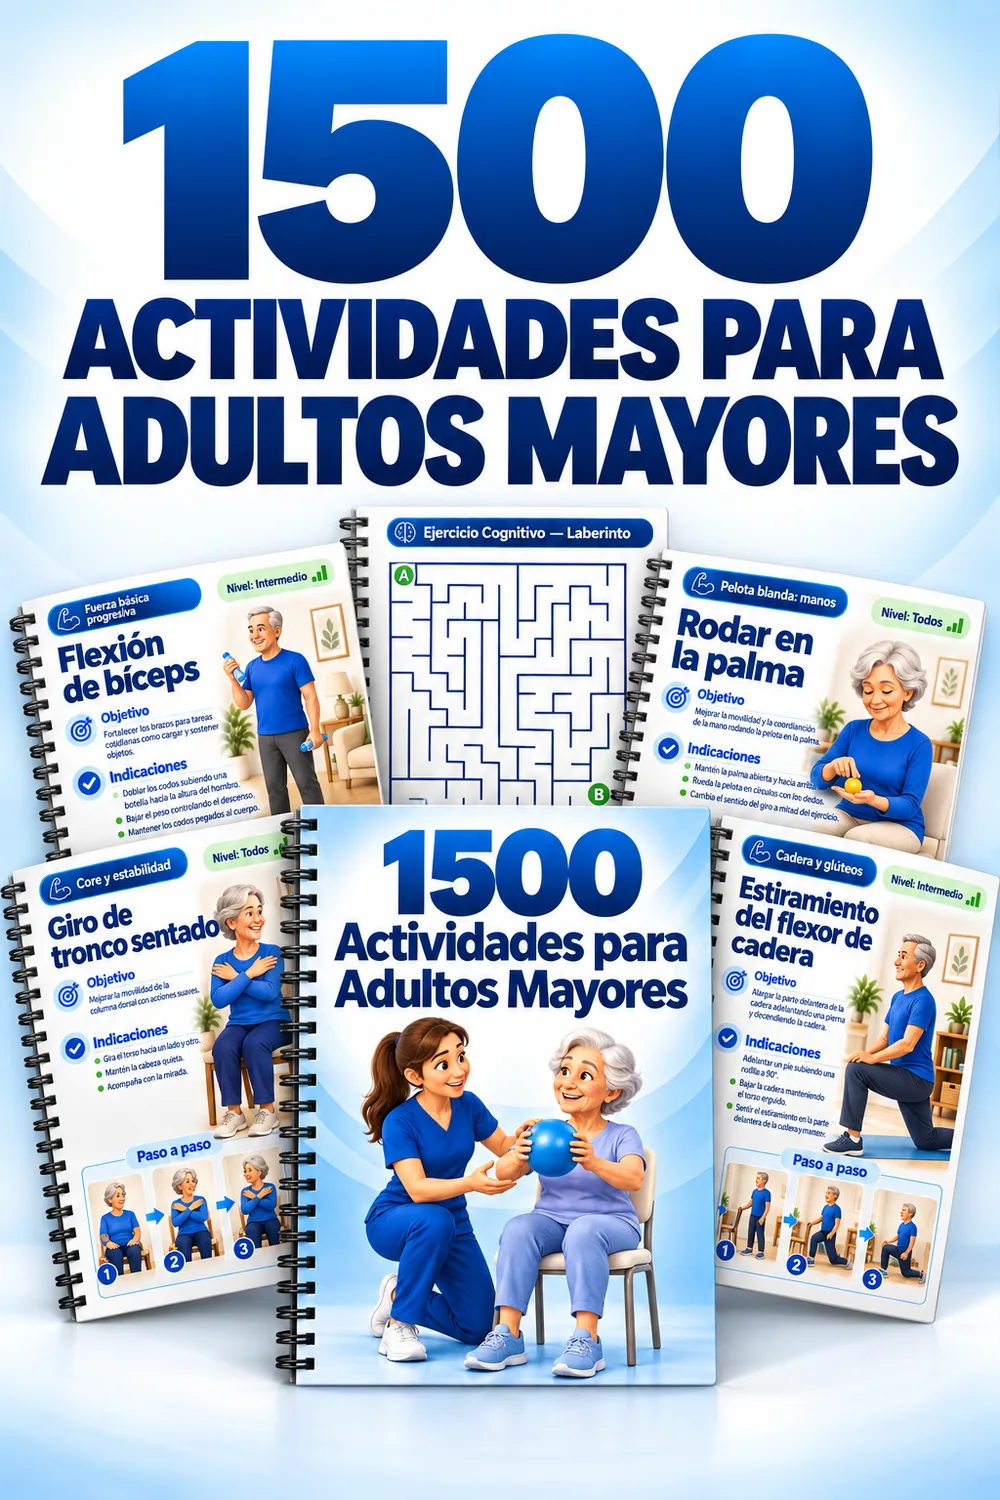
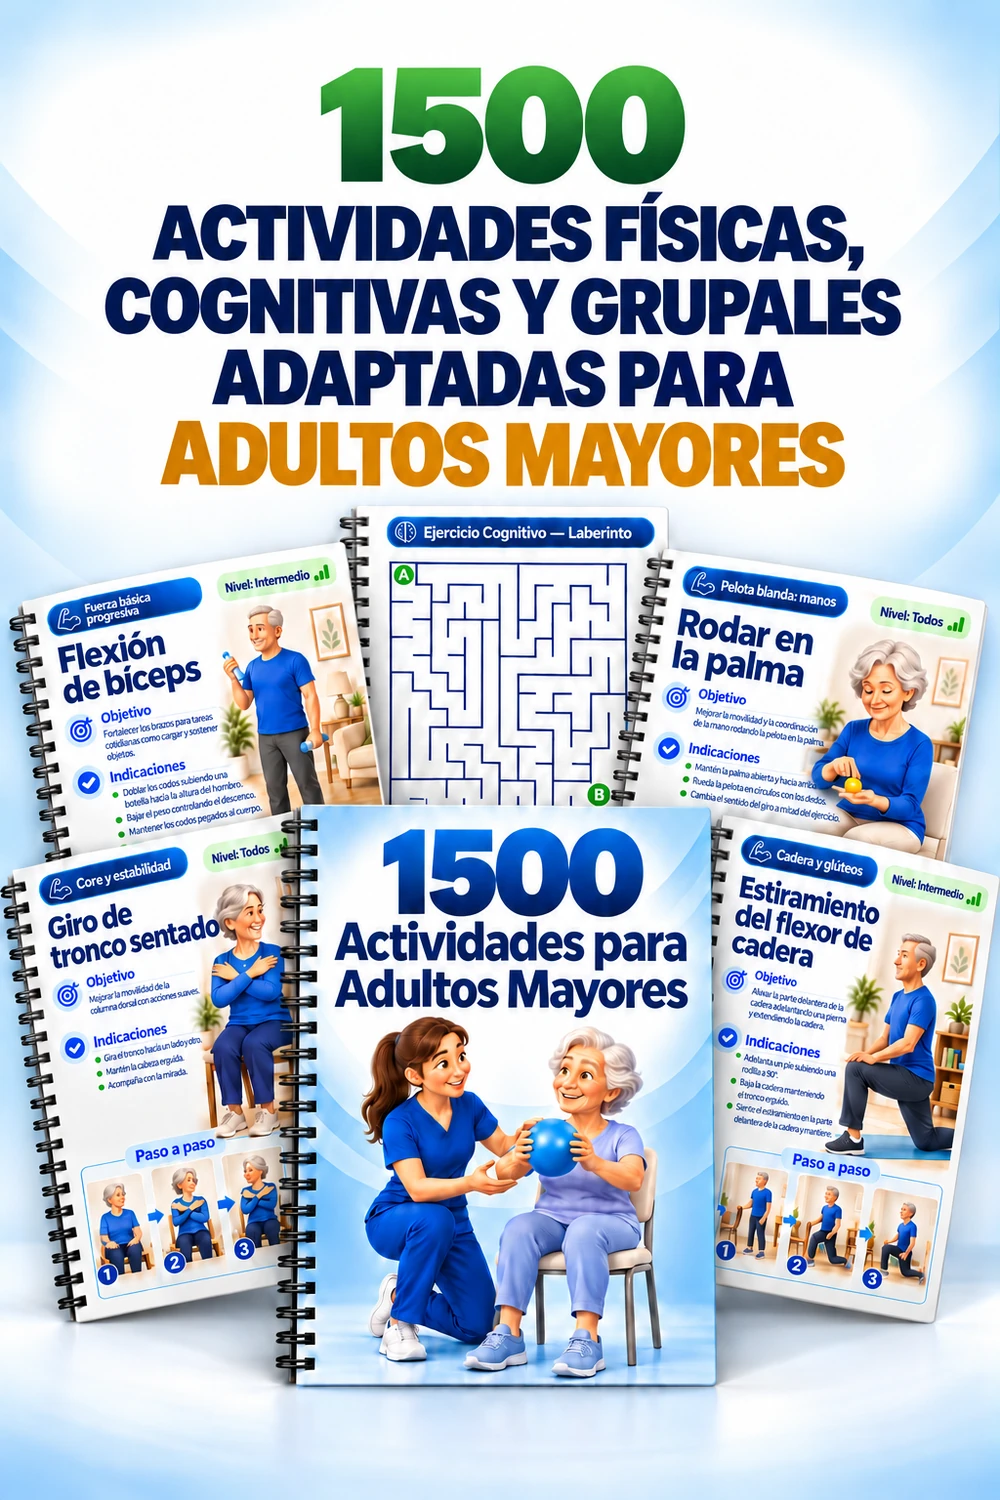
Center hero text, unify main mockup, straighten badge, uniform bonus checks
Both pages:
- Center the hero headline, lead paragraph, and "deja de planificar/
  pare de planejar" support line (previously left-aligned).
- star-badge ("MÁS VENDIDO"/"KIT PREMIUM") no longer rotated — straight
  and centered.
- Offer-card bonus items (gift emoji) now use the same green check
  icon as the rest of the includes list; BR's Básico "não incluído"
  red-X list is untouched.
- Add a CTA button at the end of the "¿Quiénes somos?"/"Quem somos
  nós?" section, styled like the guarantee button, linking to the
  main/Premium checkout and wired into the InitiateCheckout tracking.

LATAM: replace the hero, "¿Qué vas a recibir?" and CTA mockup with the
new "Capa de atividades para adultos maiores" artwork (green/gold
branding) — now the same image in all three spots, overwriting
mockup1500.webp.

BR: the hero and "O que você vai receber" mockup now reuse the
existing CTA-section mockup1500.webp (BR artwork) instead of the
separate mockup-hero-new.webp, so the same cover appears in all three
spots, matching the LATAM approach.

The now-unused mockup-hero-new.webp removed from both images/ folders.

diff --git a/index.html b/index.html
@@ -201,15 +201,15 @@ section{padding:72px 0;position:relative;overflow:hidden}
   box-shadow:var(--clay-card-sm);
   backdrop-filter:blur(8px);
 }
-.hero h1{font-size:clamp(2.5rem,8.5vw,3.75rem);margin:22px 0 20px;font-weight:900;letter-spacing:-.02em;line-height:1.12;color:var(--foreground)}
+.hero h1{font-size:clamp(2.5rem,8.5vw,3.75rem);margin:22px 0 20px;font-weight:900;letter-spacing:-.02em;line-height:1.12;color:var(--foreground);text-align:center}
 .grad-text{
   background:linear-gradient(110deg,#14532D 0%,#15803D 45%,#059669 100%);
   -webkit-background-clip:text;background-clip:text;
   color:#15803D;-webkit-text-fill-color:transparent;
 }
 .accent-green{color:#15803D;font-weight:800}
-.hero .support-line{font-family:"Nunito",sans-serif;font-weight:700;font-size:1.0625rem;color:var(--accent);margin-bottom:6px}
-.hero p.lead{font-size:1.0625rem;color:var(--body-fg);max-width:56ch;line-height:1.625}
+.hero .support-line{font-family:"Nunito",sans-serif;font-weight:700;font-size:1.0625rem;color:var(--accent);margin-bottom:6px;text-align:center}
+.hero p.lead{font-size:1.0625rem;color:var(--body-fg);max-width:56ch;line-height:1.625;text-align:center;margin-left:auto;margin-right:auto}
 .hero-list{list-style:none;margin:22px 0 26px;display:grid;gap:12px;justify-items:start}
 .hero-list li{display:flex;align-items:center;gap:12px;font-weight:500}
 .tick{
@@ -424,7 +424,7 @@ section{padding:72px 0;position:relative;overflow:hidden}
   padding:36px;box-shadow:0 6px 18px rgba(124,58,237,.06);position:relative;
 }
 .star-badge{
-  position:absolute;top:-22px;left:50%;transform:translateX(-50%) rotate(-4deg);
+  position:absolute;top:-22px;left:50%;transform:translateX(-50%);
   background:linear-gradient(135deg,#FCD34D,var(--tertiary));border:0;
   border-radius:var(--r-full);padding:9px 24px;white-space:nowrap;
   font-family:"Nunito",sans-serif;font-weight:800;font-size:.875rem;color:#3D2E00;
@@ -550,6 +550,7 @@ footer .disclaimer{margin-top:14px;color:#8B8597;font-size:.75rem}
 .about-text p:last-child{margin-bottom:0}
 .about-text strong{color:var(--foreground);font-weight:800}
 .about-commitment{margin-top:8px;font-weight:700;color:var(--foreground)}
+.about-cta{text-align:center;margin-top:32px}
 </style>
 </head>
 <body>
@@ -580,7 +581,7 @@ footer .disclaimer{margin-top:14px;color:#8B8597;font-size:.75rem}
         <p class="support-line">Deja de planificar cada sesión desde cero.</p>
 
         <div class="mockup-frame">
-          <img src="images/mockup-hero-new.webp" alt="1500 Actividades para Adultos Mayores" class="product-mockup-plain" width="1100" height="1100" loading="eager">
+          <img src="images/mockup1500.webp" alt="1500 Actividades para Adultos Mayores" class="product-mockup-plain" width="1000" height="1500" loading="eager">
         </div>
 
         <ul class="hero-list">
@@ -748,7 +749,7 @@ footer .disclaimer{margin-top:14px;color:#8B8597;font-size:.75rem}
 
     <div class="reveal" style="margin-bottom:12px">
       <div class="mockup-frame" style="max-width:300px">
-        <img src="images/mockup-hero-new.webp" alt="1500 Actividades para Adultos Mayores" class="product-mockup-plain" width="1100" height="1100" loading="lazy">
+        <img src="images/mockup1500.webp" alt="1500 Actividades para Adultos Mayores" class="product-mockup-plain" width="1000" height="1500" loading="lazy">
       </div>
     </div>
 
@@ -979,11 +980,11 @@ footer .disclaimer{margin-top:14px;color:#8B8597;font-size:.75rem}
         <li><span class="tick"><svg width="15" height="15" viewBox="0 0 24 24" fill="none" stroke="currentColor" stroke-width="3" stroke-linecap="round" stroke-linejoin="round"><polyline points="20 6 9 17 4 12"/></svg></span> Material para imprimir o consultar en pantalla</li>
         <li><span class="tick"><svg width="15" height="15" viewBox="0 0 24 24" fill="none" stroke="currentColor" stroke-width="3" stroke-linecap="round" stroke-linejoin="round"><polyline points="20 6 9 17 4 12"/></svg></span> Acceso desde el celular o la computadora</li>
         <li><span class="tick"><svg width="15" height="15" viewBox="0 0 24 24" fill="none" stroke="currentColor" stroke-width="3" stroke-linecap="round" stroke-linejoin="round"><polyline points="20 6 9 17 4 12"/></svg></span> Acceso de por vida</li>
-        <li><span class="gift-ico">🎁</span> Guía de Evaluación Funcional del Adulto Mayor</li>
-        <li><span class="gift-ico">🎁</span> Guía de Adaptaciones por Condición de Salud</li>
-        <li><span class="gift-ico">🎁</span> Informes de Evolución para Familias</li>
-        <li><span class="gift-ico">🎁</span> +100 Ejercicios · Movilidad Reducida</li>
-        <li><span class="gift-ico">🎁</span> Armador de Sesiones</li>
+        <li><span class="tick"><svg width="15" height="15" viewBox="0 0 24 24" fill="none" stroke="currentColor" stroke-width="3" stroke-linecap="round" stroke-linejoin="round"><polyline points="20 6 9 17 4 12"/></svg></span> Guía de Evaluación Funcional del Adulto Mayor</li>
+        <li><span class="tick"><svg width="15" height="15" viewBox="0 0 24 24" fill="none" stroke="currentColor" stroke-width="3" stroke-linecap="round" stroke-linejoin="round"><polyline points="20 6 9 17 4 12"/></svg></span> Guía de Adaptaciones por Condición de Salud</li>
+        <li><span class="tick"><svg width="15" height="15" viewBox="0 0 24 24" fill="none" stroke="currentColor" stroke-width="3" stroke-linecap="round" stroke-linejoin="round"><polyline points="20 6 9 17 4 12"/></svg></span> Informes de Evolución para Familias</li>
+        <li><span class="tick"><svg width="15" height="15" viewBox="0 0 24 24" fill="none" stroke="currentColor" stroke-width="3" stroke-linecap="round" stroke-linejoin="round"><polyline points="20 6 9 17 4 12"/></svg></span> +100 Ejercicios · Movilidad Reducida</li>
+        <li><span class="tick"><svg width="15" height="15" viewBox="0 0 24 24" fill="none" stroke="currentColor" stroke-width="3" stroke-linecap="round" stroke-linejoin="round"><polyline points="20 6 9 17 4 12"/></svg></span> Armador de Sesiones</li>
         <li><span class="tick"><svg width="15" height="15" viewBox="0 0 24 24" fill="none" stroke="currentColor" stroke-width="3" stroke-linecap="round" stroke-linejoin="round"><polyline points="20 6 9 17 4 12"/></svg></span> Garantía de 7 días</li>
         <li><span class="tick"><svg width="15" height="15" viewBox="0 0 24 24" fill="none" stroke="currentColor" stroke-width="3" stroke-linecap="round" stroke-linejoin="round"><polyline points="20 6 9 17 4 12"/></svg></span> Actualizaciones mensuales</li>
         <li><span class="tick"><svg width="15" height="15" viewBox="0 0 24 24" fill="none" stroke="currentColor" stroke-width="3" stroke-linecap="round" stroke-linejoin="round"><polyline points="20 6 9 17 4 12"/></svg></span> Soporte prioritario</li>
@@ -1027,6 +1028,12 @@ footer .disclaimer{margin-top:14px;color:#8B8597;font-size:.75rem}
         <p>Creemos que envejecer debe preservar un espacio para la <strong>autonomía, el movimiento, el aprendizaje y la convivencia</strong>. Y que quienes cuidan necesitan recursos y orientación para transformar estos objetivos en acciones cotidianas.</p>
         <p>Por eso, nuestro trabajo conecta <strong>actividades físicas, estimulación cognitiva e interacción social</strong>, apoyando a profesionales, cuidadores, instituciones y familias en la construcción de una rutina más activa, participativa y acogedora para los adultos mayores.</p>
         <p class="about-commitment"><strong>Nuestro compromiso es con quienes cuidan y con la dignidad, la participación y el bienestar de quienes reciben ese cuidado.</strong></p>
+      </div>
+      <div class="about-cta">
+        <a href="https://pay.hotmart.com/W107820578K?checkoutMode=10" class="btn" id="cta-sobre">
+          Quiero recibir las 1500 actividades
+          <span class="arrow"><svg width="17" height="17" viewBox="0 0 24 24" fill="none" stroke="currentColor" stroke-width="2.5" stroke-linecap="round" stroke-linejoin="round"><line x1="5" y1="12" x2="19" y2="12"/><polyline points="12 5 19 12 12 19"/></svg></span>
+        </a>
       </div>
     </div>
   </div>
@@ -1160,10 +1167,10 @@ footer .disclaimer{margin-top:14px;color:#8B8597;font-size:.75rem}
 
 <script>
 // Evento InitiateCheckout solo en los botones de checkout real
-// (CTA principal, garantía y último botón de la página).
+// (CTA principal, sección "quiénes somos", garantía y último botón de la página).
 // El botón del hero es solo un ancla, no dispara el evento.
 (function(){
-  var ids = ['cta-principal', 'cta-garantia', 'cta-final'];
+  var ids = ['cta-principal', 'cta-sobre', 'cta-garantia', 'cta-final'];
   ids.forEach(function(id){
     var el = document.getElementById(id);
     if(el){

diff --git a/br/index.html b/br/index.html
@@ -201,15 +201,15 @@ section{padding:72px 0;position:relative;overflow:hidden}
   box-shadow:var(--clay-card-sm);
   backdrop-filter:blur(8px);
 }
-.hero h1{font-size:clamp(2.5rem,8.5vw,3.75rem);margin:22px 0 20px;font-weight:900;letter-spacing:-.02em;line-height:1.12;color:var(--foreground)}
+.hero h1{font-size:clamp(2.5rem,8.5vw,3.75rem);margin:22px 0 20px;font-weight:900;letter-spacing:-.02em;line-height:1.12;color:var(--foreground);text-align:center}
 .grad-text{
   background:linear-gradient(110deg,#14532D 0%,#15803D 45%,#059669 100%);
   -webkit-background-clip:text;background-clip:text;
   color:#15803D;-webkit-text-fill-color:transparent;
 }
 .accent-green{color:#15803D;font-weight:800}
-.hero .support-line{font-family:"Nunito",sans-serif;font-weight:700;font-size:1.0625rem;color:var(--accent);margin-bottom:6px}
-.hero p.lead{font-size:1.0625rem;color:var(--body-fg);max-width:56ch;line-height:1.625}
+.hero .support-line{font-family:"Nunito",sans-serif;font-weight:700;font-size:1.0625rem;color:var(--accent);margin-bottom:6px;text-align:center}
+.hero p.lead{font-size:1.0625rem;color:var(--body-fg);max-width:56ch;line-height:1.625;text-align:center;margin-left:auto;margin-right:auto}
 .hero-list{list-style:none;margin:22px 0 26px;display:grid;gap:12px;justify-items:start}
 .hero-list li{display:flex;align-items:center;gap:12px;font-weight:500}
 .tick{
@@ -424,7 +424,7 @@ section{padding:72px 0;position:relative;overflow:hidden}
   padding:36px;box-shadow:0 6px 18px rgba(124,58,237,.06);position:relative;
 }
 .star-badge{
-  position:absolute;top:-22px;left:50%;transform:translateX(-50%) rotate(-4deg);
+  position:absolute;top:-22px;left:50%;transform:translateX(-50%);
   background:linear-gradient(135deg,#FCD34D,var(--tertiary));border:0;
   border-radius:var(--r-full);padding:9px 24px;white-space:nowrap;
   font-family:"Nunito",sans-serif;font-weight:800;font-size:.875rem;color:#3D2E00;
@@ -563,6 +563,7 @@ footer .disclaimer{margin-top:14px;color:#8B8597;font-size:.75rem}
 .about-text p:last-child{margin-bottom:0}
 .about-text strong{color:var(--foreground);font-weight:800}
 .about-commitment{margin-top:8px;font-weight:700;color:var(--foreground)}
+.about-cta{text-align:center;margin-top:32px}
 </style>
 </head>
 <body>
@@ -593,7 +594,7 @@ footer .disclaimer{margin-top:14px;color:#8B8597;font-size:.75rem}
         <p class="support-line">Pare de planejar cada sessão do zero.</p>
 
         <div class="mockup-frame">
-          <img src="images/mockup-hero-new.webp" alt="1500 Atividades para Idosos" class="product-mockup-plain" width="1100" height="1100" loading="eager">
+          <img src="images/mockup1500.webp" alt="1500 Atividades para Idosos" class="product-mockup-plain" width="1000" height="1500" loading="eager">
         </div>
 
         <ul class="hero-list">
@@ -761,7 +762,7 @@ footer .disclaimer{margin-top:14px;color:#8B8597;font-size:.75rem}
 
     <div class="reveal" style="margin-bottom:12px">
       <div class="mockup-frame" style="max-width:300px">
-        <img src="images/mockup-hero-new.webp" alt="1500 Atividades para Idosos" class="product-mockup-plain" width="1100" height="1100" loading="lazy">
+        <img src="images/mockup1500.webp" alt="1500 Atividades para Idosos" class="product-mockup-plain" width="1000" height="1500" loading="lazy">
       </div>
     </div>
 
@@ -991,11 +992,11 @@ footer .disclaimer{margin-top:14px;color:#8B8597;font-size:.75rem}
         <li><span class="tick"><svg width="15" height="15" viewBox="0 0 24 24" fill="none" stroke="currentColor" stroke-width="3" stroke-linecap="round" stroke-linejoin="round"><polyline points="20 6 9 17 4 12"/></svg></span> Envio imediato por WhatsApp e e-mail após a confirmação do pagamento</li>
         <li><span class="tick"><svg width="15" height="15" viewBox="0 0 24 24" fill="none" stroke="currentColor" stroke-width="3" stroke-linecap="round" stroke-linejoin="round"><polyline points="20 6 9 17 4 12"/></svg></span> Acesso vitalício</li>
         <li><span class="tick"><svg width="15" height="15" viewBox="0 0 24 24" fill="none" stroke="currentColor" stroke-width="3" stroke-linecap="round" stroke-linejoin="round"><polyline points="20 6 9 17 4 12"/></svg></span> Garantia de 30 dias</li>
-        <li><span class="gift-ico">🎁</span> Guia de Avaliação Funcional do Idoso</li>
-        <li><span class="gift-ico">🎁</span> Guia de Adaptações por Condição de Saúde</li>
-        <li><span class="gift-ico">🎁</span> Relatórios de Evolução para Famílias</li>
-        <li><span class="gift-ico">🎁</span> +100 Exercícios · Mobilidade Reduzida</li>
-        <li><span class="gift-ico">🎁</span> Montador de Sessões</li>
+        <li><span class="tick"><svg width="15" height="15" viewBox="0 0 24 24" fill="none" stroke="currentColor" stroke-width="3" stroke-linecap="round" stroke-linejoin="round"><polyline points="20 6 9 17 4 12"/></svg></span> Guia de Avaliação Funcional do Idoso</li>
+        <li><span class="tick"><svg width="15" height="15" viewBox="0 0 24 24" fill="none" stroke="currentColor" stroke-width="3" stroke-linecap="round" stroke-linejoin="round"><polyline points="20 6 9 17 4 12"/></svg></span> Guia de Adaptações por Condição de Saúde</li>
+        <li><span class="tick"><svg width="15" height="15" viewBox="0 0 24 24" fill="none" stroke="currentColor" stroke-width="3" stroke-linecap="round" stroke-linejoin="round"><polyline points="20 6 9 17 4 12"/></svg></span> Relatórios de Evolução para Famílias</li>
+        <li><span class="tick"><svg width="15" height="15" viewBox="0 0 24 24" fill="none" stroke="currentColor" stroke-width="3" stroke-linecap="round" stroke-linejoin="round"><polyline points="20 6 9 17 4 12"/></svg></span> +100 Exercícios · Mobilidade Reduzida</li>
+        <li><span class="tick"><svg width="15" height="15" viewBox="0 0 24 24" fill="none" stroke="currentColor" stroke-width="3" stroke-linecap="round" stroke-linejoin="round"><polyline points="20 6 9 17 4 12"/></svg></span> Montador de Sessões</li>
         <li><span class="tick"><svg width="15" height="15" viewBox="0 0 24 24" fill="none" stroke="currentColor" stroke-width="3" stroke-linecap="round" stroke-linejoin="round"><polyline points="20 6 9 17 4 12"/></svg></span> Atualizações mensais</li>
         <li><span class="tick"><svg width="15" height="15" viewBox="0 0 24 24" fill="none" stroke="currentColor" stroke-width="3" stroke-linecap="round" stroke-linejoin="round"><polyline points="20 6 9 17 4 12"/></svg></span> Suporte prioritário</li>
       </ul>
@@ -1076,6 +1077,12 @@ footer .disclaimer{margin-top:14px;color:#8B8597;font-size:.75rem}
         <p>Acreditamos que envelhecer deve preservar espaço para <strong>autonomia, movimento, aprendizado e convivência</strong>. E que quem cuida precisa de recursos e orientação para transformar esses objetivos em ações no dia a dia.</p>
         <p>Por isso, nosso trabalho conecta <strong>atividades físicas, estimulação cognitiva e interação social</strong>, apoiando profissionais, cuidadores, instituições e famílias na construção de uma rotina mais ativa, participativa e acolhedora para os idosos.</p>
         <p class="about-commitment"><strong>Nosso compromisso é com quem cuida e com a dignidade, a participação e o bem-estar de quem recebe esse cuidado.</strong></p>
+      </div>
+      <div class="about-cta">
+        <a href="https://payfast.greenn.com.br/redirect/794052" class="btn" id="cta-sobre">
+          Quero o Kit Premium completo
+          <span class="arrow"><svg width="17" height="17" viewBox="0 0 24 24" fill="none" stroke="currentColor" stroke-width="2.5" stroke-linecap="round" stroke-linejoin="round"><line x1="5" y1="12" x2="19" y2="12"/><polyline points="12 5 19 12 12 19"/></svg></span>
+        </a>
       </div>
     </div>
   </div>
@@ -1209,10 +1216,10 @@ footer .disclaimer{margin-top:14px;color:#8B8597;font-size:.75rem}
 
 <script>
 // Evento InitiateCheckout somente nos botões de checkout real
-// (CTA do Kit Premium, CTA do Kit Básico e CTA da seção de garantia).
+// (CTA do Kit Premium, CTA do Kit Básico, CTA da seção "quem somos" e CTA da garantia).
 // Os demais botões são âncoras para a seção de oferta, não disparam o evento.
 (function(){
-  var ids = ['cta-principal', 'cta-basico', 'cta-garantia'];
+  var ids = ['cta-principal', 'cta-basico', 'cta-sobre', 'cta-garantia'];
   ids.forEach(function(id){
     var el = document.getElementById(id);
     if(el){
